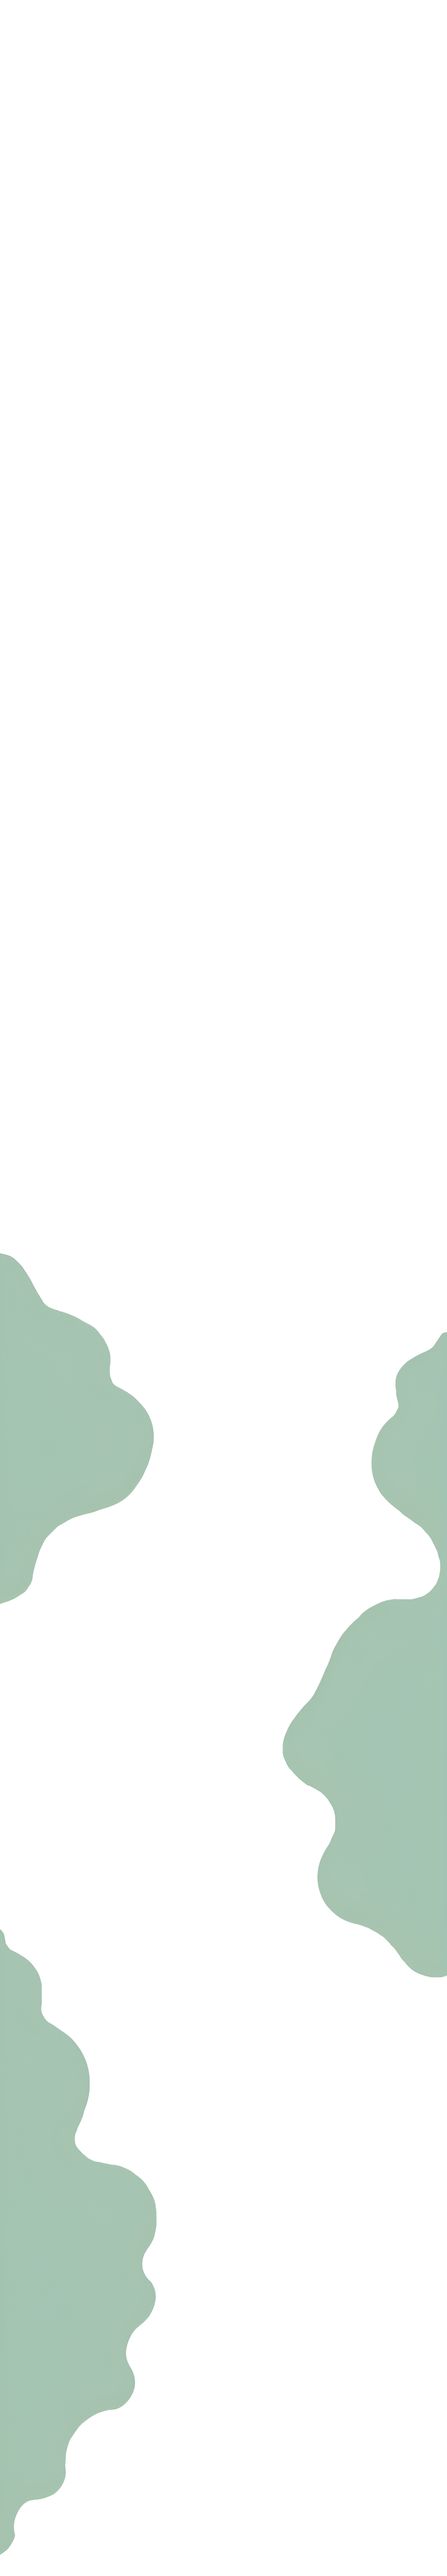
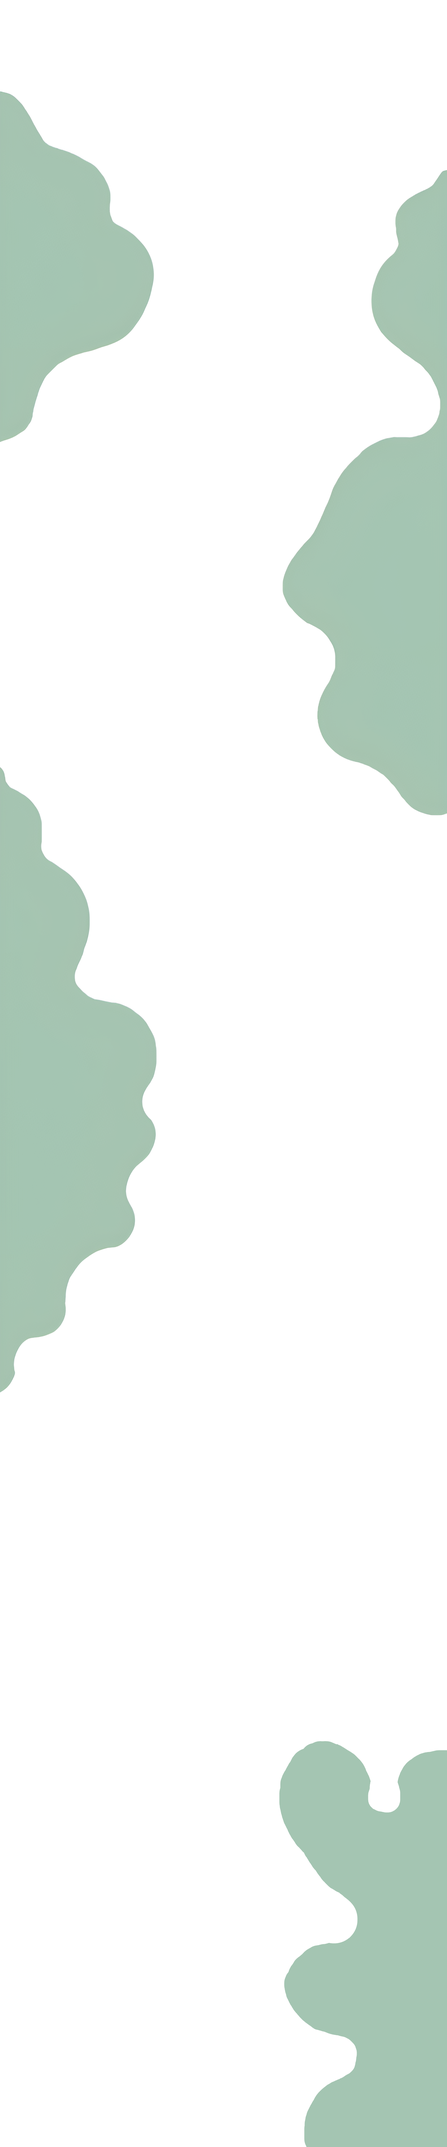
responsa e fundo

diff --git a/index/styleIndex.css b/index/styleIndex.css
@@ -141,17 +141,20 @@
 /*---------------------------------------------------*/
 
 .comprar{
-    margin:10% 8% 5% 5%;
+    margin: 400px 10% 5% 10%;
     display: flex;
     flex-direction: row;
-    gap: 180px;
+    justify-content: space-between;
+    gap: 20px;
+    width: 80%;
+
     
 }
 
 .comprar img
 {
-    height: 650px;
-    width: 500px;
+    width: 29vw;
+    height: calc(29vw * 1.4);
     border-radius: 30px;
     object-fit: cover;
 }
@@ -170,6 +173,7 @@
     font-size:  25px;
     text-align: end;
     margin: 50px 0px 0px 0px;
+    padding-left: 10%
 }
 
 .comprar2
@@ -199,4 +203,176 @@
 {
     transform: scale(1.05);
     background: rgb(73, 97, 77);
+}
+
+
+@media (max-width: 1340px) and (min-width:1042px)
+{
+
+
+
+    /*.comprar{
+        width: 70%;
+        margin: 10% auto;
+
+    }*/
+    
+    .comprar img
+    {
+        height: 80vh;
+    }
+
+}
+
+
+
+
+
+
+@media (max-width: 1042px) and (min-width: 695px)
+{
+    p 
+    {
+        font-size: 23px;
+    }
+
+
+    .plantas{
+        margin: 10%;
+        align-items: center;
+        justify-content: center;
+    }
+
+    .car_planta{
+        max-width: 600px;
+
+    }
+
+    .tituloPlantas
+    {
+        text-align: center;
+    }
+    
+    #car_lados
+    {
+        display: none;
+    }
+
+    .comprar
+    {
+        flex-direction: column;
+        width: 70%;
+        margin: 10% 15% 0% 15%;
+        align-items: center;
+        justify-content: center;
+        gap: 100px;
+    }
+
+    .comprar img
+    {
+        width: 100%;
+        height: 400px;
+        
+    }
+
+
+    .comprar2
+    {
+        align-items:center;
+        justify-content: center;
+        padding: 0px;
+    }
+
+    .comprar2 p
+    {
+        text-align: justify;
+        text-align-last: center;
+        padding: 0px;
+    }
+
+    .tituloComprar
+    {
+        font-size: 60px;
+        text-align: center;
+    }
+
+    
+}
+
+@media (max-width:695px)
+{
+    .introducao
+    {
+        width: 80%;
+        margin: 10%;
+        gap: 0%;
+    }
+
+    .introducao1
+    {
+        width: 100%;
+        min-width: 200px;
+    }
+
+    .introducao1 p
+    {
+        width: 100%;
+    }
+
+    .introducao2
+    {
+        margin: 10%;
+        width: 80%;
+    }
+
+    .plantas
+    {
+        margin: 10%;
+        width: 80%;
+    }
+
+    .car_planta 
+    {
+        width: 52vw;
+        min-width: 250px;
+        height: calc(52vw / 0.78 );
+        min-height: 330px;
+        padding: 5%;
+    }
+
+    .tituloComprar
+    {
+        font-size: 55px;
+        text-align: center;
+    }
+
+    .comprar
+    {
+        flex-direction: column;
+        width: 80%;
+        margin: 15% 10% 0% 10%;
+        align-items: center;
+        justify-content: justify;
+    }
+
+    .comprar img
+    {
+        width: 100%;
+        height: 400px;
+        
+    }
+
+    .comprar2
+    {
+        align-items:center;
+        justify-content: center;
+    }
+
+    .comprar2 p
+    {
+        text-align: justify;
+        padding: 0px 20px 0px 20px;
+    }
+
+
 }

diff --git a/style.css b/style.css
@@ -9,7 +9,7 @@
 body{
     background-image: url(imagens/fundo_enhanced.png);
     background-repeat: no-repeat;
-    background-position: center;
+    background-position: start;
     background-size: cover;
     display: flex;
     align-items: center;
@@ -186,104 +186,12 @@ header{
 
 /*---------------------------------------------------*/
 
-@media (max-width: 1340px) and (min-width:1042px)
-{
-    .introducao div p
-    {
-        font-size: 23px;
-        
-    }
-    .introducao
-    {
-        margin:5%;
-    }
 
-    .comprar{
-        width: 70%;
-        margin: 10% auto;
 
-    }
-    
-    .comprar img
-    {
-        display:none;
-    }
 
-}
 
-@media (max-width: 1042px)
-{
-    p 
-    {
-        font-size: 23px;
-    }
-    .introducao
-    {
-        flex-direction: column;
-        align-items: center;
-        margin:5%;
-        gap: 0px;
-    }
 
-    .introducao1
-    {
-        width: 80%;
-    }
 
-    .introducao2
-    {
-        width: 80%;
-        gap:20px;
-    }
-
-    .plantas{
-        margin: 10%;
-        align-items: center;
-        justify-content: center;
-    }
-
-    .car_planta{
-        max-width: 600px;
-
-    }
-
-    .tituloPlantas
-    {
-        text-align: center;
-    }
-    
-    #car_lados
-    {
-        display: none;
-    }
-
-    .comprar
-    {
-        flex-direction: column;
-        width:80%;
-        margin: 0% 10% 0% 10%;
-        align-items: center;
-        justify-content: center;
-    }
-
-    .comprar img
-    {
-        display:none;
-    }
-
-    .comprar2
-    {
-        align-items:center;
-        justify-content: center;
-    }
-
-    .comprar2 p
-    {
-        text-align: justify;
-    }
-
-    
-}
 
 
 
